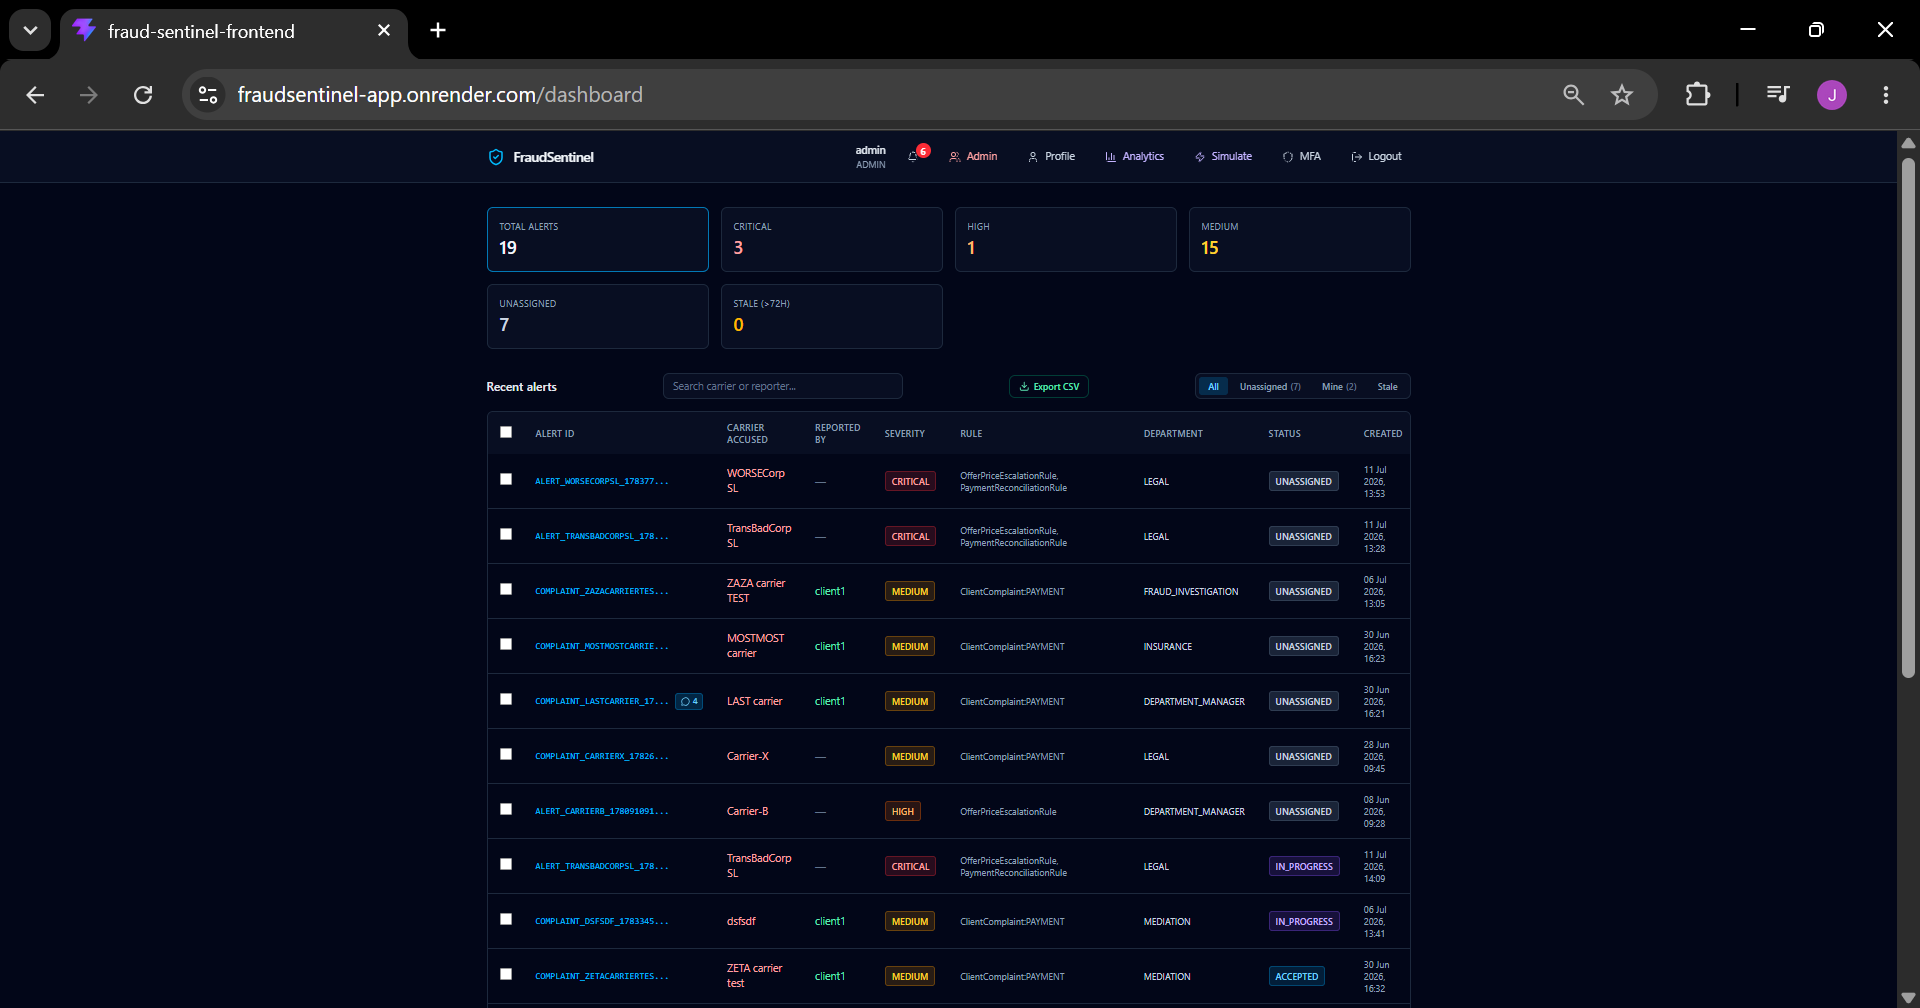
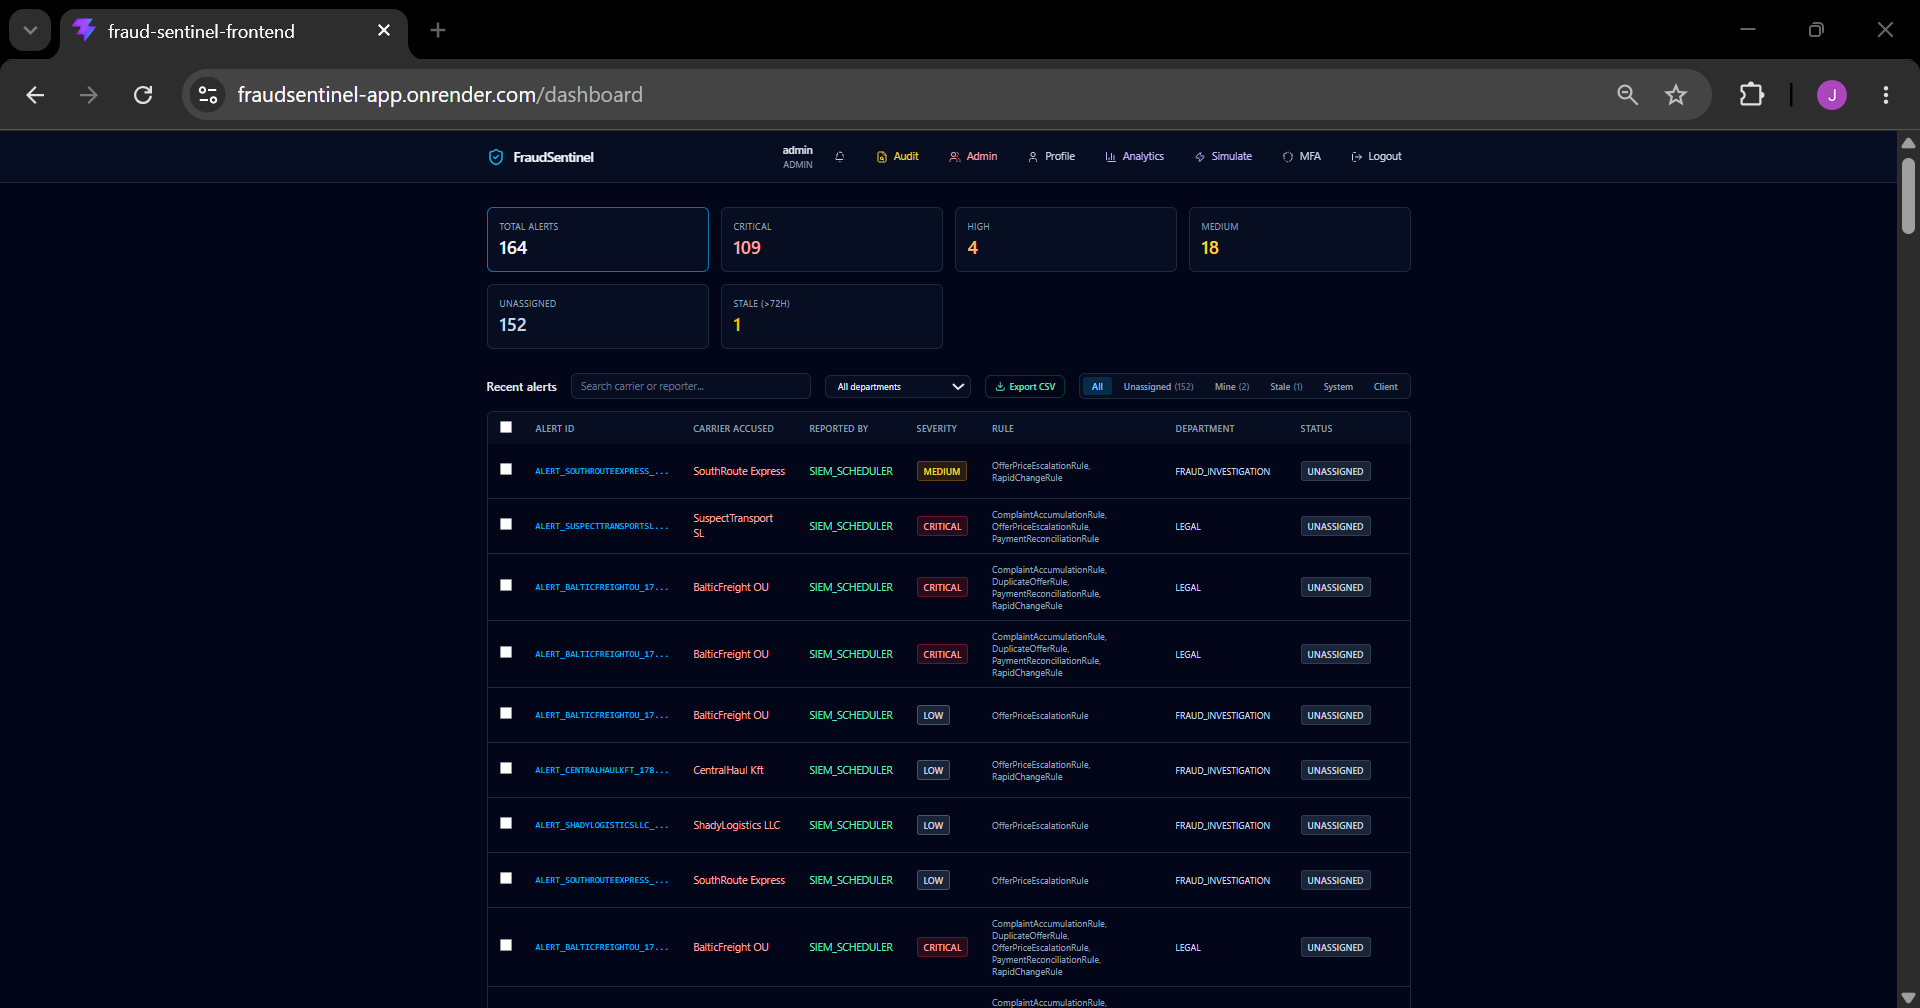
docs: improve README and update dashboard screenshot

diff --git a/README.md b/README.md
@@ -1,18 +1,56 @@
 # FraudSentinel 🔍
 
-**Live app:** https://fraudsentinel-app.onrender.com  
-**Live backend:** https://fraudsentinel-api-mpb5.onrender.com  
-**Swagger UI:** https://fraudsentinel-api-mpb5.onrender.com/swagger-ui.html  
-_(cold start ~30s on first request)_
 
-**Project board:** https://github.com/users/Borgesjesk/projects/3  
-**User stories:** [docs/USER_STORIES.md](docs/USER_STORIES.md)
+> AI-powered carrier fraud investigation platform built with Spring Boot, React and MongoDB.
+
+## 🚀 Quick Links
+
+🌐 **Live App:** https://fraudsentinel-app.onrender.com
+
+⚙ **Swagger UI:** https://fraudsentinel-api-mpb5.onrender.com/swagger-ui.html
+
+🎥 **Live Demo:** https://drive.google.com/file/d/16jgFYuyL9U-rBRgJFPh5Bz3dZ7wKKL-8/view?usp=sharing
+
+📋 **Project Board:** https://github.com/users/Borgesjesk/projects/3
+
+📖 **User Stories:** [docs/USER_STORIES.md](docs/USER_STORIES.md)
 
 [![CI](https://github.com/Borgesjesk/carrier-fraud-sentinel/actions/workflows/ci.yml/badge.svg)](https://github.com/Borgesjesk/carrier-fraud-sentinel/actions/workflows/ci.yml)
 
 A carrier fraud detection platform with role-based access control, multi-channel case management, real-time alert routing, an auto-generating SIEM feed, and enterprise-grade authentication including MFA, IP allowlisting, admin recovery, session management, and audit logging.
 
 Built as the final project for the IT Academy Barcelona Java Backend bootcamp. The design comes directly from six years of fraud investigation work at a European freight exchange, where I dealt daily with the patterns this system detects: carriers gaming payment terms, escalating offer prices, and accumulating complaints across multiple categories.
+
+---
+# 🎥 Live Demo
+
+Want to see FraudSentinel in action before exploring the code?
+
+▶ **Watch the full demo (1m 36s)**
+
+https://drive.google.com/file/d/16jgFYuyL9U-rBRgJFPh5Bz3dZ7wKKL-8/view?usp=sharing
+
+### 🚀 What you'll see
+
+🔐 Secure authentication
+
+🔒 Multi-Factor Authentication (MFA)
+
+📊 Fraud investigation dashboard
+
+📂 Multi-channel case management
+
+🚨 Real-time alert routing
+
+🎯 Rule-based fraud detection
+
+⚙ SIEM feed auto-generation
+
+🛡 Role-Based Access Control (RBAC)
+
+📈 Analytics dashboard
+
+📜 Audit logging
 
 ---
 
